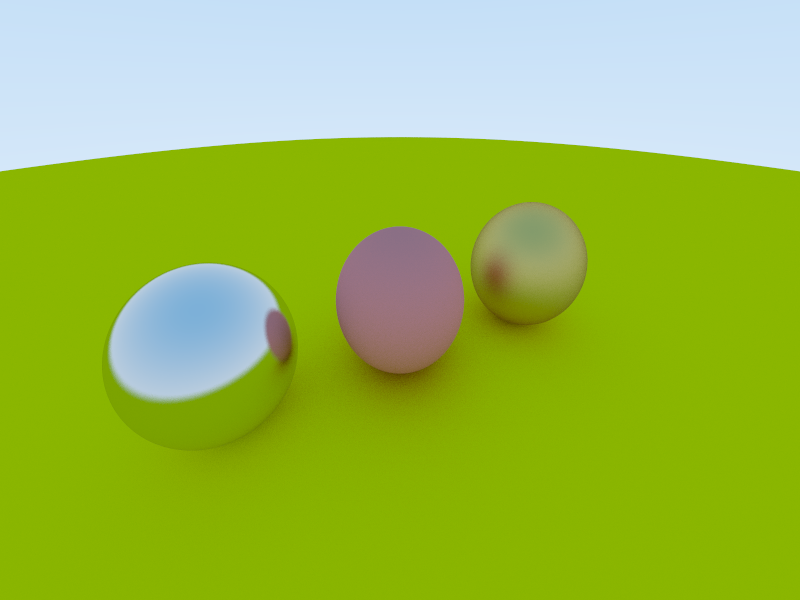
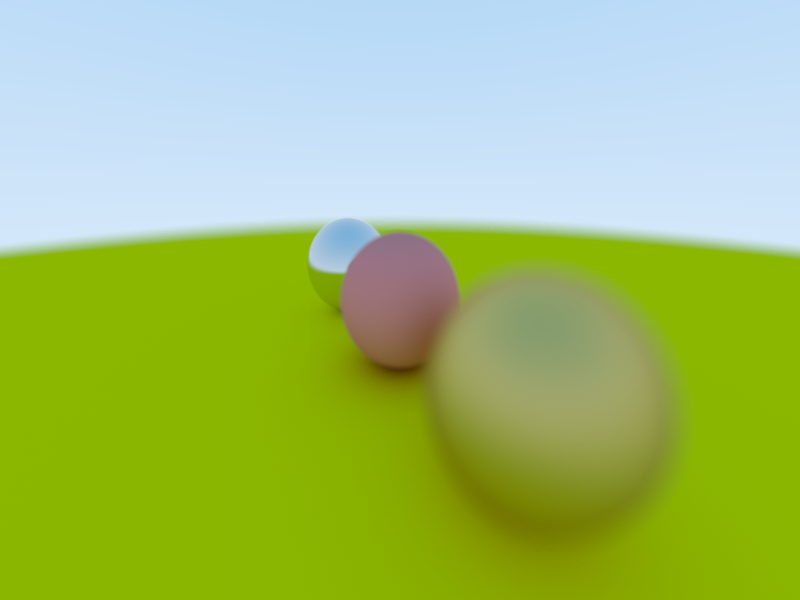
implement depth of field technique

diff --git a/Raytracer/Camera.cpp b/Raytracer/Camera.cpp
@@ -1,32 +1,36 @@
 #define _USE_MATH_DEFINES
 #include <cmath>
+#include <glm\gtc\random.hpp>
 #include "Camera.h"
 
 using namespace glm;
 
-Camera::Camera(const vec3& position, const vec3& target, const float fov, const float aspectRatio) :
+Camera::Camera(const vec3& position, const vec3& target, const float fov, const float aspectRatio, const float aperture, const float focalLength) :
     position(position) {
 
     auto theta = fov * (M_PI / 180.0);
     auto halfWidth = tan(theta / 2.0);
     auto halfHeight = aspectRatio / halfWidth;
    
-    auto w = normalize(position - target);
-    auto u = normalize(cross(vec3(0, 1.f, 0), w));
-    auto v = cross(w, u);
+    auto view = normalize(position - target);
+    right = normalize(cross(vec3(0, 1.f, 0), view));
+    up = cross(view, right);
 
-    center = -1.f * w;
-    horizontal = 2.f * static_cast<float>(halfWidth) * u;
-    vertical = -2.f * static_cast<float>(halfHeight) * v;
+    center = -1.f * view * focalLength;
+    horizontal = 2.f * static_cast<float>(halfWidth) * right * focalLength;
+    vertical = -2.f * static_cast<float>(halfHeight) * up * focalLength;
+
+    lensRadius = aperture / 2.f;
 }
 
 Ray Camera::getRay(const float u, const float v) const
 {
-    using namespace glm;
+    auto rd = lensRadius * diskRand(1.f);
+    auto offset = right * rd.x + up * rd.y;
 
-    vec3 direction = center +
+    auto direction = center +
         horizontal * u - horizontal * 0.5f +
-        vertical * v - vertical * 0.5f;
+        vertical * v - vertical * 0.5f - offset;
 
-    return Ray(position, direction);
+    return Ray(position + offset, direction);
 }

diff --git a/Raytracer/Main.cpp b/Raytracer/Main.cpp
@@ -39,7 +39,7 @@ int main(int argc, char **argv) {
 
     Image testImage(800, 600, 4);
     
-    const auto samples = 250;
+    const auto samples = 2048;
     const auto threadCount = 8;
 
     Scene scene;
@@ -55,7 +55,10 @@ int main(int argc, char **argv) {
     scene.addObject(make_unique<Sphere>(Sphere(vec3(0, -200.5f, 0), 200, basicDirt)));
 
     auto ratio = static_cast<float>(testImage.getWidth()) / static_cast<float>(testImage.getHeight());
-    Camera camera(vec3(-0.75f, 1.25f, 1.7), vec3(0, 0, 0), 110.f, ratio);
+
+    vec3 camPos(2.f, 0.8f, 1.1f);
+    vec3 camTarget(0.f);
+    Camera camera(camPos, camTarget, 110.f, ratio, 0.2f, static_cast<float>((camTarget - camPos).length()));
 
     default_random_engine gen;
     uniform_real_distribution<float> dist(0.f, 1.f);

diff --git a/Raytracer/Camera.h b/Raytracer/Camera.h
@@ -10,8 +10,13 @@ class Camera {
     glm::vec3 horizontal;
     glm::vec3 vertical;
 
+    glm::vec3 up;
+    glm::vec3 right;
+
+    float lensRadius;
+
 public:
-    Camera(const glm::vec3& position, const glm::vec3& target, const float fov, const float aspectRatio);
+    Camera(const glm::vec3& position, const glm::vec3& target, const float fov, const float aspectRatio, const float aperture, const float focalLength);
 
     Ray getRay(const float u, const float v) const;
 };
